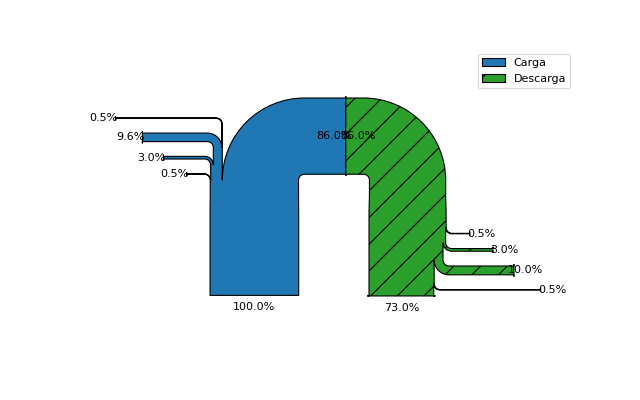
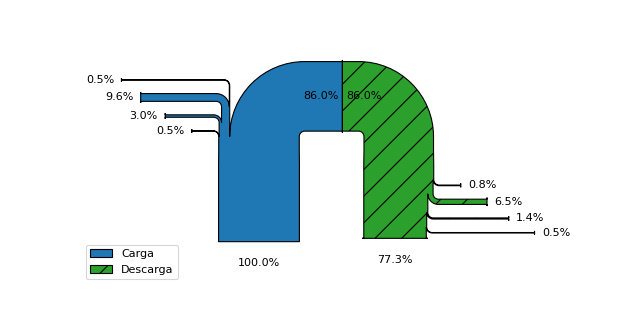
Refactor Sankey diagram parameters for improved visualization and update legend positioning

diff --git a/Sankey_Storage.py b/Sankey_Storage.py
@@ -1,26 +1,26 @@
 import matplotlib.pyplot as plt
 from matplotlib.sankey import Sankey
 
-fig = plt.figure(figsize=(8, 5), dpi=80)
+fig = plt.figure(figsize=(8, 4), dpi=80)
 ax = fig.add_subplot(1, 1, 1, xticks=[], yticks=[])
 
 for spine in ax.spines.values():
     spine.set_visible(False)
 
 flows = [100, -0.5, -3, -9.6, -0.5, -86]
-sankey = Sankey(ax=ax, scale=0.015, offset=0.2, head_angle=180, format='%.1f', unit='%')
+sankey = Sankey(ax=ax, scale=0.015, offset=0.4, head_angle=180, format='%.1f', unit='%')
 sankey.add(flows=flows,label='Carga',
            orientations=[0, 1, 1, 1, 1,-1],
-           pathlengths=[1.3, 0.4, 0.8, 1.2, 1.8, 0.8],
+           pathlengths=[1.3, 0.5, 1, 1.5, 2, 0.8],
            rotation=90,
            facecolor='tab:blue')
-sankey.add(flows=[86, -0.5, -3, -9.96, -0.5, -73], label='Descarga',
+sankey.add(flows=[86, -0.8, -6.5, -1.4, -0.5, -77.3], label='Descarga',
            orientations=[-1,1, 1, 1, 1,0 ], prior=0, connect=(5, 0),
-           pathlengths=[0.4, 0.4, 0.8, 1.2, 1.8, 0.1],
+           pathlengths=[0.4, 0.5, 1, 1.5, 2, 0.1],
            facecolor='tab:green')
 diagrams = sankey.finish()
 diagrams[-1].patch.set_hatch('/')
-plt.legend()
+plt.legend(loc='lower left')
 
 # %%
 # Notice that only one connection is specified, but the systems form a
